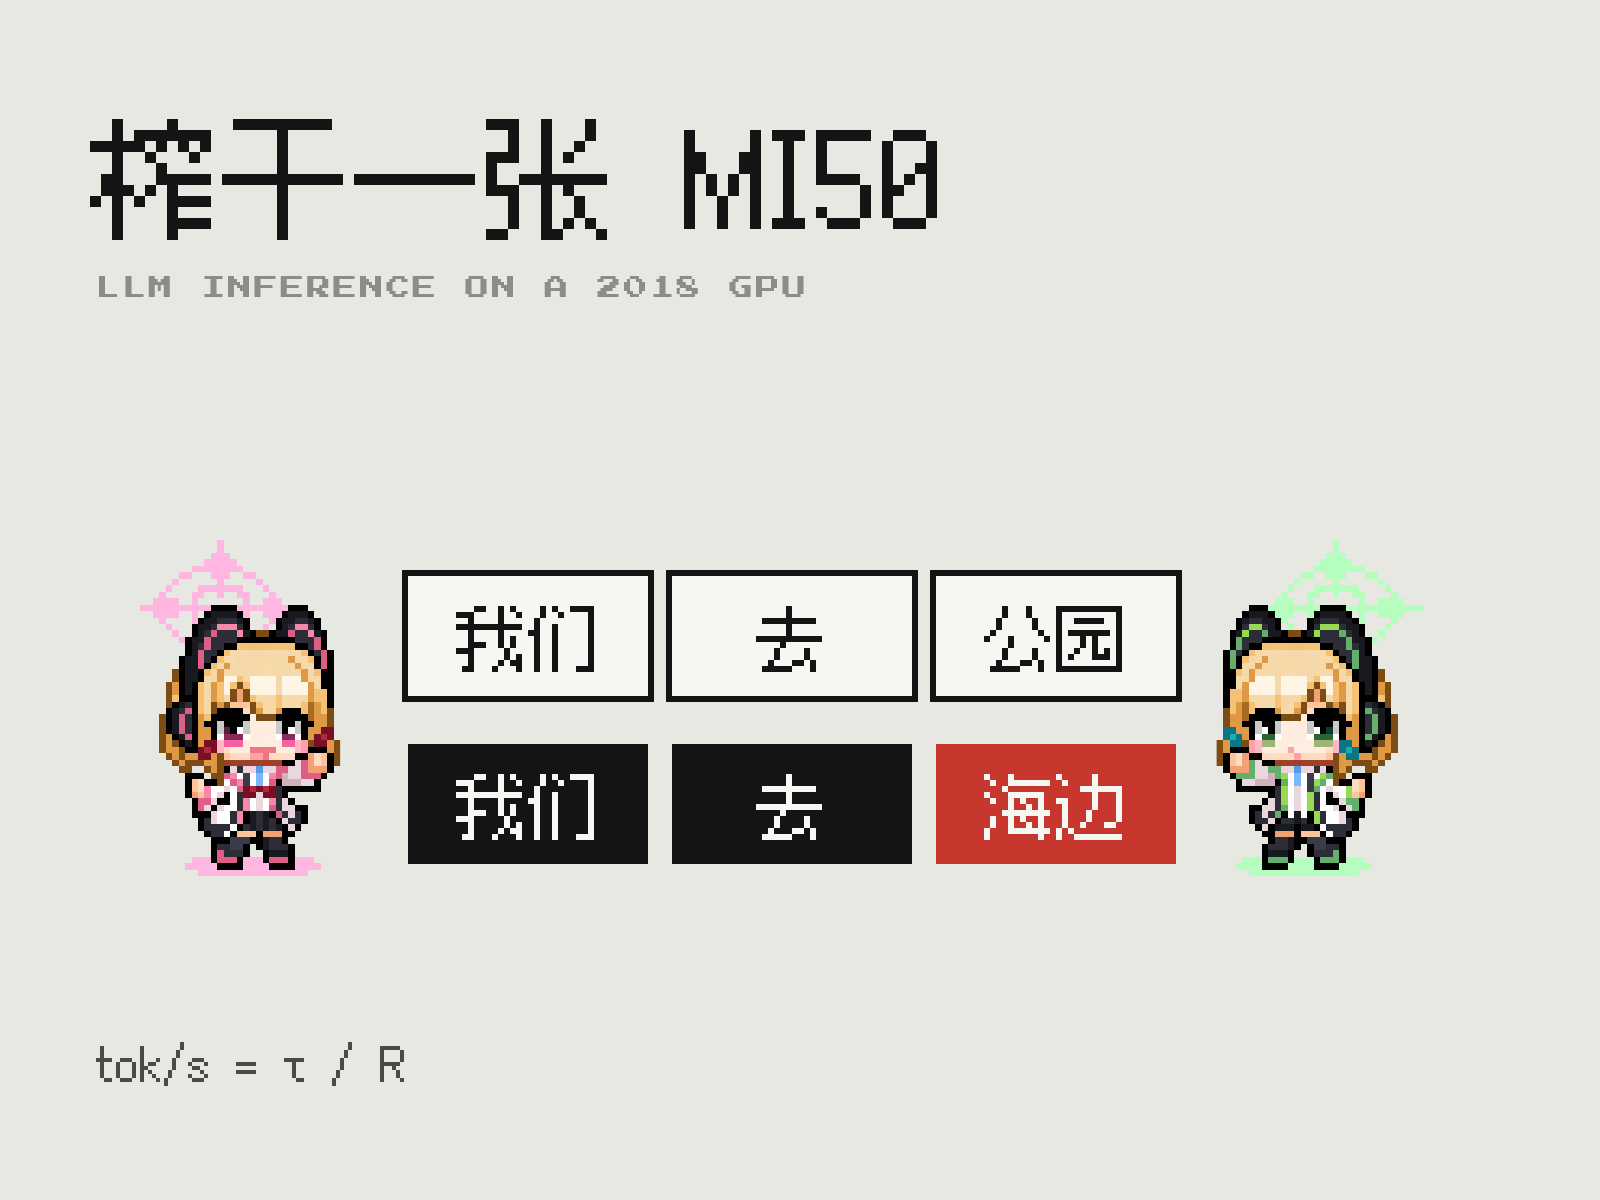
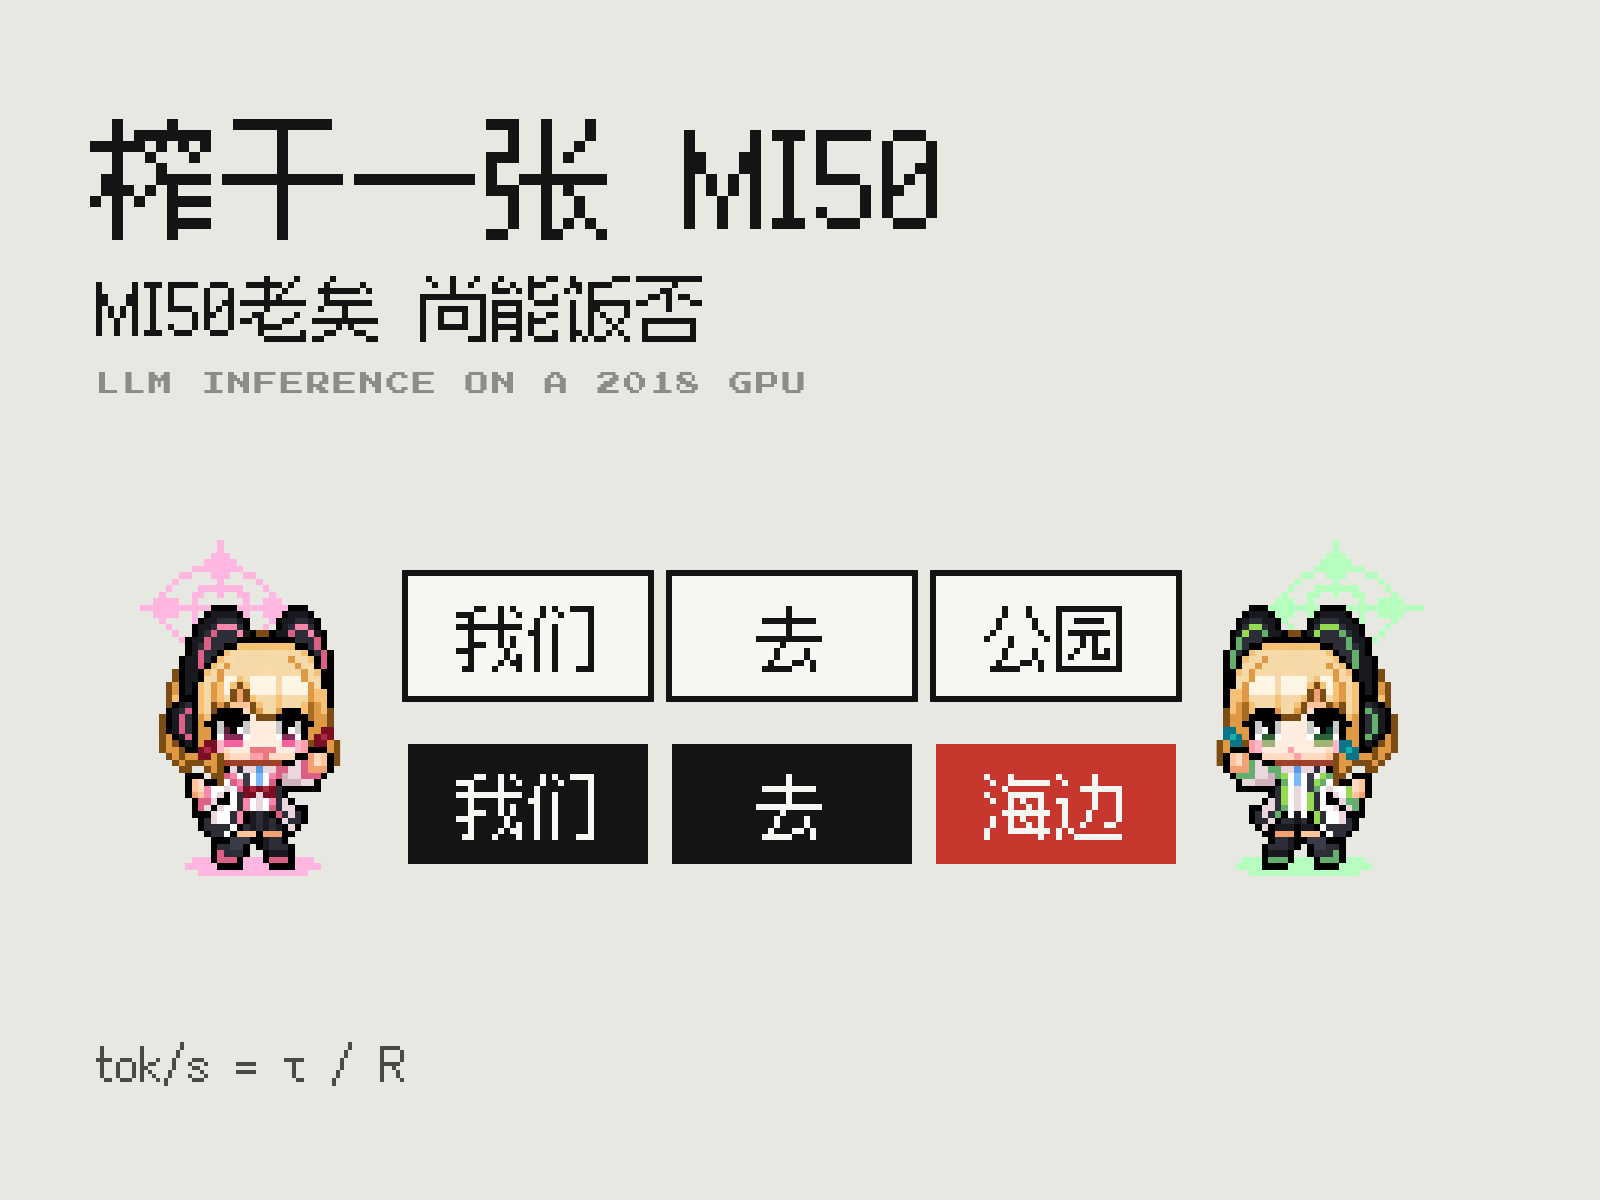
MI50 MV: add the subtitle MI50老矣 尚能饭否
Shown under the title on the opening card, the end card and the cover. Timeline
and music are unchanged, so only those frames differ from the earlier render.

Changed region(s): [[0.0625, 0.2158, 0.5, 0.3392]]

diff --git a/src/scenes/Intro.tsx b/src/scenes/Intro.tsx
@@ -38,13 +38,18 @@ export const Intro: React.FC = () => {
           {main.slice(0, tn)}
           {tn < main.length && <BlockCursor f={f} size={144} on />}
         </div>
-        {fl(f, TITLE + 72) && (
-          <div style={{position: 'absolute', left: 240, top: 564, fontFamily: FONT.pixel, fontSize: 48, lineHeight: '72px', color: COL.sub, whiteSpace: 'nowrap'}}>
+        {fl(f, TITLE + 60) && (
+          <div style={{position: 'absolute', left: 240, top: 534, fontFamily: FONT.pixel, fontSize: 60, lineHeight: '72px', color: COL.text, whiteSpace: 'nowrap'}}>
+            MI50老矣 尚能饭否
+          </div>
+        )}
+        {fl(f, TITLE + 100) && (
+          <div style={{position: 'absolute', left: 240, top: 642, fontFamily: FONT.pixel, fontSize: 48, lineHeight: '72px', color: COL.sub, whiteSpace: 'nowrap'}}>
             238 秒 → 44 秒 · 32 tok/s → 300 到 1000 tok/s
           </div>
         )}
-        {fl(f, TITLE + 110) && (
-          <div style={{position: 'absolute', left: 240, top: 660, fontFamily: FONT.pixel, fontSize: 36, lineHeight: '48px', color: COL.dim, whiteSpace: 'nowrap'}}>
+        {fl(f, TITLE + 130) && (
+          <div style={{position: 'absolute', left: 240, top: 732, fontFamily: FONT.pixel, fontSize: 36, lineHeight: '48px', color: COL.dim, whiteSpace: 'nowrap'}}>
             从硬件、模型，到每一步优化
           </div>
         )}

diff --git a/src/scenes/fin.tsx b/src/scenes/fin.tsx
@@ -189,12 +189,17 @@ export const Logo: React.FC = () => {
         {a.slice(0, n)}
         {n < a.length && <BlockCursor f={f} size={120} on />}
       </div>
+      {fl(f, 110) && (
+        <div style={{position: 'absolute', left: 0, right: 0, top: 480, textAlign: 'center', fontFamily: FONT.pixel, fontSize: 60, lineHeight: '72px', color: COL.text}}>
+          MI50老矣 尚能饭否
+        </div>
+      )}
       {fl(f, 150) && (
-        <div style={{position: 'absolute', left: 0, right: 0, top: 504, textAlign: 'center', fontFamily: FONT.pixel, fontSize: 36, lineHeight: '48px', color: COL.sub}}>
+        <div style={{position: 'absolute', left: 0, right: 0, top: 570, textAlign: 'center', fontFamily: FONT.pixel, fontSize: 36, lineHeight: '48px', color: COL.sub}}>
           先对，再快；每一步都量出来
         </div>
       )}
-      {f >= 200 && CAST.map((c, i) => <Sprite key={i} map={c} x={660 + i * 120} y={636} s={PX * 1.5} screenX={660 + i * 120} />)}
+      {f >= 200 && CAST.map((c, i) => <Sprite key={i} map={c} x={660 + i * 120} y={660} s={PX * 1.5} screenX={660 + i * 120} />)}
     </AbsoluteFill>
   );
 };

diff --git a/src/cover/Cover.tsx b/src/cover/Cover.tsx
@@ -10,7 +10,8 @@ const TRUE_ = ['我们', '去', '海边'];
 export const Cover: React.FC = () => (
   <AbsoluteFill style={{background: COL.bg}}>
     <div style={{position: 'absolute', left: 90, top: 96, fontFamily: FONT.pixel, fontSize: 132, lineHeight: '156px', color: COL.text}}>榨干一张 MI50</div>
-    <div style={{position: 'absolute', left: 96, top: 276, fontFamily: FONT.press, fontSize: 24, color: COL.dim, letterSpacing: '0.1em'}}>LLM INFERENCE ON A 2018 GPU</div>
+    <div style={{position: 'absolute', left: 96, top: 264, fontFamily: FONT.pixel, fontSize: 72, lineHeight: '84px', color: COL.text}}>MI50老矣 尚能饭否</div>
+    <div style={{position: 'absolute', left: 96, top: 372, fontFamily: FONT.press, fontSize: 24, color: COL.dim, letterSpacing: '0.1em'}}>LLM INFERENCE ON A 2018 GPU</div>
     <Sprite map={ALICE} x={120} y={540} s={24} screenX={120} />
     <Sprite map={BOB} x={1200} y={540} s={24} screenX={1200} />
     {DRAFT.map((w, i) => (

diff --git a/web/App.tsx b/web/App.tsx
@@ -45,7 +45,7 @@ const App: React.FC = () => {
 
   return (
     <div style={{maxWidth: 1280, margin: '0 auto', padding: '24px 16px 64px'}}>
-      <h1 style={{fontSize: 22, margin: '8px 0 4px'}}>榨干一张 MI50 · 网页实时渲染版</h1>
+      <h1 style={{fontSize: 22, margin: '8px 0 4px'}}>榨干一张 MI50 · MI50老矣 尚能饭否</h1>
       <p style={{color: '#4a4a47', margin: '0 0 16px', fontSize: 14}}>
         共 {TOTAL} 帧 / {fmt(TOTAL)}（60fps），浏览器实时播，不用导出 mp4。音频为压缩流播版（mp3，边下边播）。
       </p>

diff --git a/index.html b/index.html
@@ -3,7 +3,7 @@
   <head>
     <meta charset="UTF-8" />
     <meta name="viewport" content="width=device-width, initial-scale=1.0" />
-    <title>榨干一张 MI50 · 网页实时版</title>
+    <title>榨干一张 MI50 · MI50老矣 尚能饭否</title>
     <link rel="icon" href="data:," />
   </head>
   <body>

diff --git a/README.md b/README.md
@@ -1,5 +1,7 @@
 # 榨干一张 MI50 · MV
 
+**MI50老矣 尚能饭否**
+
 一部讲解 LLM 推理优化的 Remotion 动画短片：五章、三十多个场景，从一张 2018 年的 AMD Radeon Instinct MI50 的基本架构讲起，到 LLM 推理的基本概念，再按真实的优化顺序一步步讲到 DSpark。目标观众是学过计算机组成和操作系统的本科生。
 
 1920×1080 / 60fps，时间轴驱动；一套代码同时出「渲染成片」和「网页实时版」，配乐由脚本按时间轴程序化生成。
